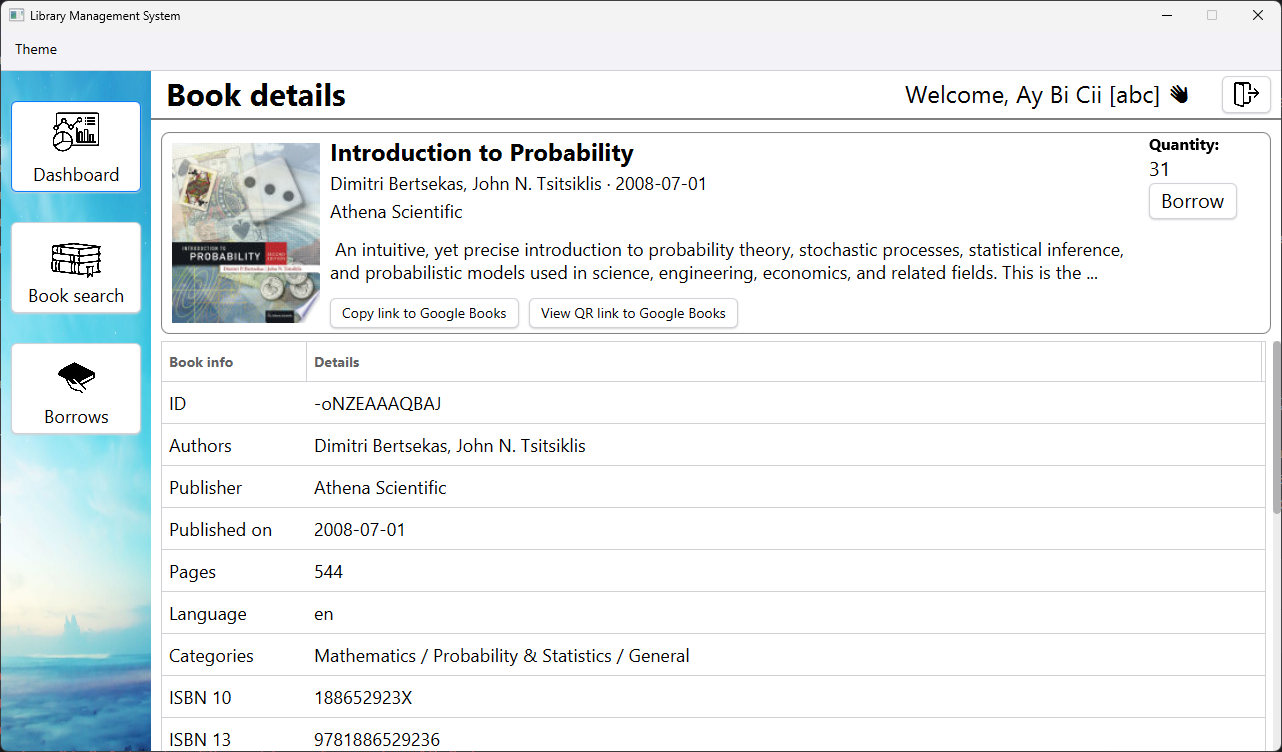
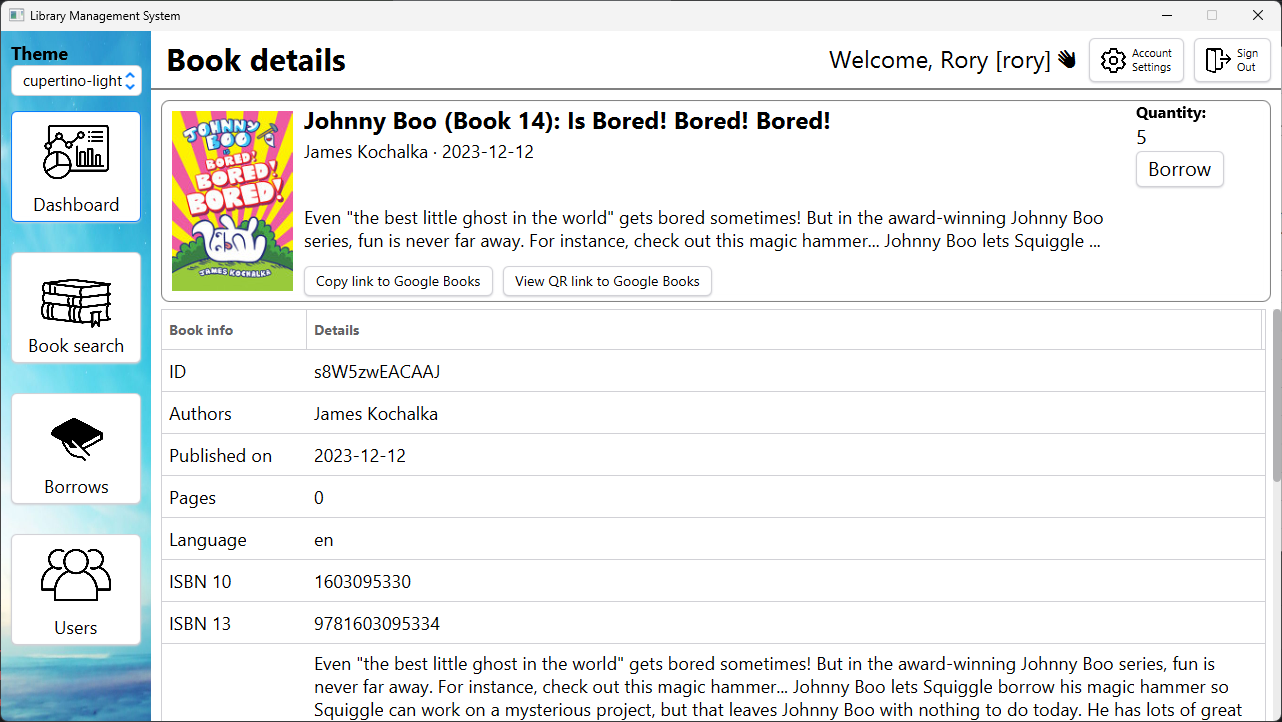
Update README and images for user management features
Added new documentation and screenshots for user management and account settings features in the README. Updated and added several images to illustrate new UI views. Also improved ChangePassword.fxml button styling and enhanced sample database generation to track borrows count per book.

Changed region(s): [[0.0, 0.0, 1.0, 1.0]]

diff --git a/src/test/java/generator/GenerateSampleDatabase.java b/src/test/java/generator/GenerateSampleDatabase.java
@@ -8,6 +8,7 @@ import com.application.librarymanagement.borrow.Timestamp;
 import com.application.librarymanagement.user.User;
 import com.application.librarymanagement.utils.JsonUtils;
 import com.google.gson.JsonArray;
+import com.google.gson.JsonElement;
 import com.google.gson.JsonObject;
 
 import java.io.IOException;
@@ -21,6 +22,7 @@ public final class GenerateSampleDatabase {
   private static final List<String> bookIds = new ArrayList<>();
   private static final List<String> usernames = new ArrayList<>();
   private static final Map<String, List<Integer>> borrowsOfUsername = new HashMap<>();
+  private static final Map<String, Integer> borrowsCount = new HashMap<>();
 
   public static void loadUsernames() {
     try (InputStream in = GenerateSampleDatabase.class.getResourceAsStream("/names-dataset.txt")) {
@@ -62,10 +64,16 @@ public final class GenerateSampleDatabase {
             book.setQuantity(5);
             books.add(book.getData());
             bookIds.add(book.getId());
+            borrowsCount.put(book.getId(), 0);
             System.out.printf("Success. (%d)\n", ++count);
           } else {
             System.out.println("Failed.");
           }
+        }
+        createSampleBorrows();
+        for (JsonElement e : books) {
+          JsonObject book = e.getAsJsonObject();
+          book.addProperty("borrowsCount", borrowsCount.get(JsonUtils.getAsString(book, "id", "")));
         }
         JsonUtils.saveToFile(books, MainApp.BOOKS_DB_PATH);
       }
@@ -125,6 +133,9 @@ public final class GenerateSampleDatabase {
       d.addProperty("status", status);
       borrows.add(d);
       borrowsOfUsername.get(username).add(i);
+      if (status != Borrow.STATUS_CANCELED) {
+        borrowsCount.put(bookId, borrowsCount.get(bookId) + 1);
+      }
       System.out.printf("Added borrow #%d.\n", i);
     }
     JsonUtils.saveToFile(borrows, MainApp.BORROWS_DB_PATH);
@@ -133,7 +144,6 @@ public final class GenerateSampleDatabase {
   public static void main(String[] args) {
     loadUsernames();
     createSampleBooks();
-    createSampleBorrows();
     createSampleMembers();
   }
 }

diff --git a/README.md b/README.md
@@ -73,6 +73,39 @@ Search for books using the Google Books API by title, authors, publisher, catego
 ![](readme-images/borrows_admin_filtered.png)
 </details>
 
+### Users Management
+- View all users' information (username, name, email, role and borrows count). Members can only view their and admins' information
+- (Admins only) Filter users by username
+- (Admins only) Add a new user
+
+<details><summary><strong>[Image] Users Management – Admin View</strong></summary>
+
+![](readme-images/users_admin_view.png)
+</details>
+
+<details><summary><strong>[Image] Users Management – Admin View – Filtered</strong></summary>
+
+![](readme-images/users_admin_view_filtered.png)
+</details>
+
+<details><summary><strong>[Image] Users Management – Admin View – Add a new user</strong></summary>
+
+![](readme-images/users_admin_view_addnewuser.png)
+</details>
+
+<details><summary><strong>[Image] Users Management – Member View</strong></summary>
+
+![](readme-images/users_member_view.png)
+</details>
+
+### Account Settings
+Users can change their name, their email as well as their password
+
+<details><summary><strong>[Image] Account Settings</strong></summary>
+
+![](readme-images/account_settings.png)
+</details>
+
 ## Tech Stack
 - **Java** – Core application logic and API integration
 - **Google Books API** – Retrieving and displaying book data
